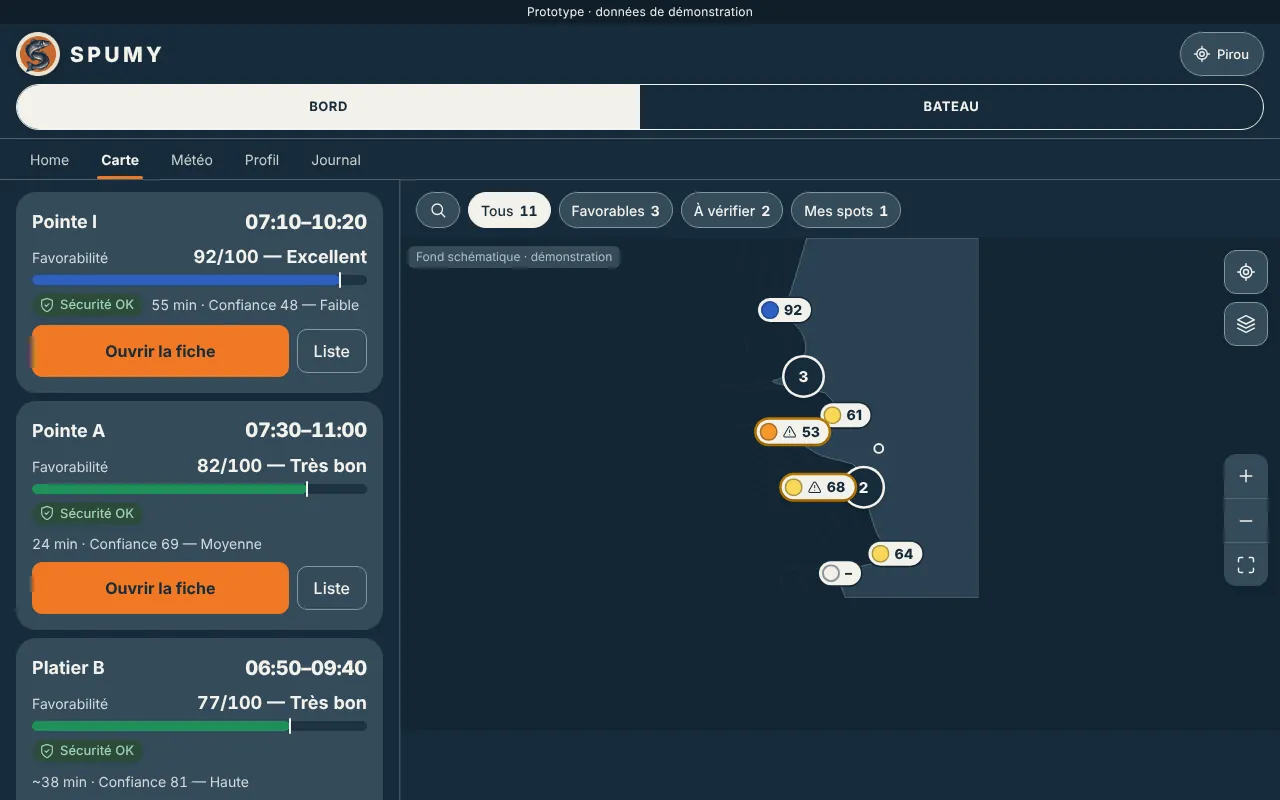
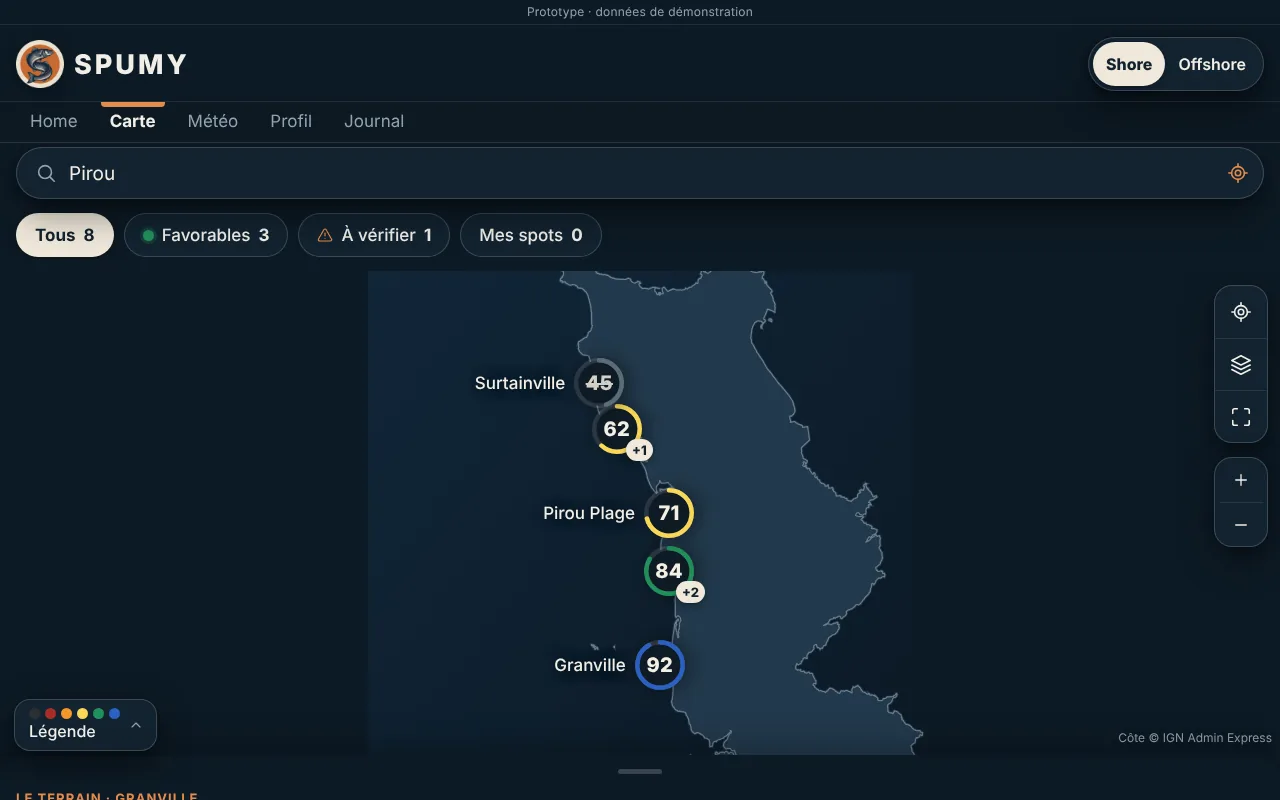
Prototype V6 : captures, planches maquette contre prototype, documents à jour (design system, UX, prototype, revues, exigences, galerie), suivi
- 14 captures à 390 px (dont la bulle de la Carte, le panneau de la Météo et le haut de Home resserré) ; planches docs/design/comparaison-v6/
- DESIGN-SYSTEM-V3 § 11 (jetons V6, orange d'interface distinct du logo), UX-V3 § 15 (niveaux d'information), PROTOTYPE-V3 version 6 (données réelles et de démonstration), REVUES-V3 § 14 et CR-15, CR-16
- exigences MAP-02, MET-01, UX-05, UX-09 précisées (V3-028) ; slogan unique en tête de Home dans la galerie et les revues
- SPUMY_AUDIT_CONTINUITY.md : sous-tâche 3.9 TESTED, prochaine action

Claude-Session: https://claude.ai/code/session_012YoZxq9fP3Y2tP8J77hw9T

diff --git a/docs/design/galerie-avant-cible.html b/docs/design/galerie-avant-cible.html
@@ -190,7 +190,7 @@ th, td { text-align: left; padding: 8px; border-bottom: 1px solid var(--line); v
       <figure><figcaption><span class="tag cible">CIBLE</span>Lancement (00)</figcaption><div class="frame" tabindex="0" role="region" aria-label="CIBLE Lancement"><img src="prototype-v3/00-lancement.webp" alt="Écran de lancement V3 : logo SPUMY d'origine sur fond crème"></div></figure>
     </div>
     <div class="apres"><b>Critères APRÈS</b><ul>
-      <li>Logo BRAND d'origine, poisson et orange #C76A31 intacts (tests/brand.py) ; aucun slogan ; on arrive sur Home, sans choisir de guide.</li>
+      <li>Logo BRAND d'origine, poisson et orange #C76A31 intacts (tests/brand.py) ; un seul slogan, « Read the sea. Fish the moment. », en tête de Home (V3-028) ; on arrive sur Home, sans choisir de guide.</li>
     </ul></div>
   </section>
 
@@ -204,7 +204,7 @@ th, td { text-align: left; padding: 8px; border-bottom: 1px solid var(--line); v
         <tr><td>Vraies données</td><td>Scores issus du moteur validé, sources et heures réelles ; aucune donnée de démonstration.</td></tr>
         <tr><td>Accessibilité</td><td>axe-core sans violation grave ; cibles de 44 px ; 12 px au moins ; un h1 et un titre par écran.</td></tr>
         <tr><td>Règles</td><td>Tests de traçabilité verts : Favorables, Confiance sans effet sur le rang, À vérifier, égalités, pénurie.</td></tr>
-        <tr><td>Marque</td><td>tests/brand.py vert ; aucun slogan ; aucun « V2 » à l'écran.</td></tr>
+        <tr><td>Marque</td><td>tests/brand.py vert ; un seul slogan, en tête de Home (V3-028) ; aucun « V2 » à l'écran.</td></tr>
       </tbody>
     </table></div>
   </section>

diff --git a/docs/REQUIREMENTS.md b/docs/REQUIREMENTS.md
@@ -2,7 +2,7 @@
 
 Phase 2 V3, 20 novembre 2026. Format du référentiel, § 5.2.
 
-**Version 3** (23 nov. 2026, V3-029 et V3-030) : 98 exigences ; MAP-09, MET-05 et JRN-06 ajoutées, UX-03 modifiée (V3-028).
+**Version 3** (23 nov. 2026, V3-029 et V3-030) : 98 exigences ; MAP-09, MET-05 et JRN-06 ajoutées, UX-03 modifiée (V3-028) ; MAP-02, MET-01, UX-05 et UX-09 précisées pour le prototype V6 (V3-028).
 
 **Version 2** (20 nov. 2026, jalon 1 de la phase 3) : 95 exigences ; MET-01 à MET-04, UX-08, UX-09, PRO-03, SPOT-09, BAT-09, BAT-10 et MAP-08 ajoutées, UX-05 modifiée (V3-023).
 
@@ -74,7 +74,7 @@ Validation : registre validé par le jeton de la phase 3 (20 nov. 2026, 4 h 25).
 | Id | Exigence | Prio. | Origine | Critère d'acceptation | Vérif. | V2 | Phase |
 | --- | --- | --- | --- | --- | --- | --- | --- |
 | MAP-01 | Carte centrée sur la position active, cadrée sur les spots retenus | IND | § 6.9 ; D11 | position et spots visibles sans geste, aux 4 largeurs | E, V | Non conforme | 3, 10 |
-| MAP-02 | Remplissage du marqueur = palier de Favorabilité seulement ; « à vérifier », « non recommandé » et « pas de note » par des signes distincts | IND | § 6.7.4 | légende et rendu conformes | V | Conforme | 3 |
+| MAP-02 | Marqueur = palier de Favorabilité seulement (V6 : anneau de la couleur du palier autour du score, V3-028) ; « à vérifier » (⚠), « non recommandé » (score barré) et « pas de note » (–) par des signes distincts ; sous 44 px d'écart, un groupe porte le meilleur score et « +N » | IND | § 6.7.4 ; V3-028 | légende et rendu conformes ; spots d'un groupe comptés dans les filtres | V | Conforme | 3 |
 | MAP-03 | Pas de chevauchement illisible (regroupement ou décalage) ; zone tactile de 44 px au moins | IND | § 6.9, § 6.10 ; D11 | capture de la côte de Carteret sans chevauchement | V, E | Non conforme | 3, 10 |
 | MAP-04 | Accord exact entre liste, marqueurs et compteurs de filtres | IND | § 13.2 | test croisé sur 3 positions | E | Conforme (par guide) | 10 |
 | MAP-05 | Fond de carte attribué ; hors ligne, un message clair ; aucun préchargement interdit | IND | § 8.5 ; V3-012 | attribution visible ; aucune requête de tuile hors de la vue | E, R | Conforme | 3, 10 |
@@ -131,7 +131,7 @@ Validation : registre validé par le jeton de la phase 3 (20 nov. 2026, 4 h 25).
 
 | Id | Exigence | Prio. | Origine | Critère d'acceptation | Vérif. | V2 | Phase |
 | --- | --- | --- | --- | --- | --- | --- | --- |
-| MET-01 | Carte du vent autour de la position de référence : flèches sur une grille régulière, force et rafales écrites, direction, heure par heure sur 48 h, puis 7 jours | IND | V3-023 (jalon 1) | flèches justes contre les données reçues ; heure choisie gardée | U, V | Absent (onglet Météo V2 sans carte) | 3, 6 |
+| MET-01 | Carte du vent autour de la position de référence : vent animé en couleurs (nappe de force et traînées dans le sens du vent, V3-028 ; flèches fixes si le mouvement est réduit), force et rafales écrites en nœuds, direction, heure par heure sur 48 h, puis 7 jours (Aujourd'hui, Demain, 7 jours) | IND | V3-023 (jalon 1) ; V3-028 | couleurs et traînées justes contre les données reçues ; heure choisie gardée ; animation en pause onglet caché | U, V | Absent (onglet Météo V2 sans carte) | 3, 6 |
 | MET-02 | BATEAU : couche Mer (hauteur, période, direction des vagues) aux mêmes points | IMP | V3-023 | couche testée en BATEAU seulement | U, V | Absent | 3, 9 |
 | MET-03 | Aucun découpage géographique (grille de points, aucune zone nommée) ; couleur neutre, distincte des paliers de Favorabilité ; avertissement écrit à partir de force 6 | IND | § 0.2 ; V3-023 | aucune couleur de palier ni nom de zone dans la couche | U, V | — | 3 |
 | MET-04 | Résumé du lieu de référence (vent, mer, eau, pression, pluie, vigilance, soleil) et courbes du jour ; source, modèle et âge toujours écrits ; hors ligne : dernière prévision avec son âge | IND | § 6.11 ; DATA_SOURCES | source et âge visibles dans tous les états | E, V | Partiel | 3, 6 |
@@ -145,11 +145,11 @@ Validation : registre validé par le jeton de la phase 3 (20 nov. 2026, 4 h 25).
 | UX-02 | Palette #F07824, #172B3A, #344B5A, #F3F1EB ; aucun cyan structurant ; jetons sémantiques ; `brand-logo-orange` distinct de `accent-orange` | IND | § 6.2 ; D6, D7 | jetons et contrastes mesurés (WCAG 2.2 AA) | U, V | Non conforme | 3 |
 | UX-03 | Aucun slogan sauf « Read the sea. Fish the moment. » en tête de Home (V3-028) ; aucune mention de « V2 » ni de « phase » à l'écran | IND | § 6.2.2 ; D5, D13 | recherche de texte dans le build | U | Non conforme | 3 |
 | UX-04 | Deux scores dans une disposition lisible, pas une grille à trois colonnes ; la fixture « 53/100, à vérifier » et « 69/100, moyenne » est comprise | IND | § 6.7.1, § 6.7.2 ; H4, H5 | 4 personnes sur 5 l'expliquent (test) | T, V | Non conforme | 3 |
-| UX-05 | Barre défilante : 4 onglets visibles, ordre par défaut Home, Carte, Météo, Profil, puis Journal ; ordre modifiable dans Profil ; Journal aussi depuis Home et Profil ; bascule BORD / BATEAU (V3-023, qui remplace en partie V3-017) | IND | § 6.4 ; V3-023 | navigation testée au clavier et au toucher ; ordre enregistré et rétabli | E | Partiel | 3, 10 |
+| UX-05 | Barre défilante : 4 onglets visibles, ordre par défaut Home, Carte, Météo, Profil, puis Journal ; ordre modifiable dans Profil ; Journal aussi depuis Home et Profil ; bascule BORD / BATEAU, écrite « Shore » / « Offshore » (cartes à logos sur Home, bascule dans l'en-tête des autres onglets, V3-028) (V3-023, qui remplace en partie V3-017) | IND | § 6.4 ; V3-023 ; V3-028 | navigation testée au clavier et au toucher ; ordre enregistré et rétabli | E | Partiel | 3, 10 |
 | UX-06 | WCAG 2.2 AA mesuré ; largeurs 320, 375, 390 px et ordinateur ; thème Plein soleil ; mouvement réduit | IND | § 6.10, § 6.14 | 0 violation axe et ratios consignés | U, V | Partiel | 3, 14 |
 | UX-07 | Le chargement n'affiche pas de statut provisoire comme s'il était réel | IMP | D12 | capture au chargement sans « à vérifier » provisoire | V | Non conforme | 3 |
 | UX-08 | On change d'onglet en le touchant ; glisser la barre fait apparaître les autres onglets (défilement par onglet entier, repère de suite, onglet actif toujours visible) ; le contenu ne change pas d'onglet par glissement ; sans animation si le mouvement est réduit | IMP | V3-023 (précision du 20 nov., 14 h 02) | barre défilée au doigt et au clavier ; Journal atteint en faisant défiler | E | Absent | 3, 10 |
-| UX-09 | Home : photo de fond (automatique selon les conditions, ou choisie dans Profil), marquée « Illustration », et phrase de synthèse de la pêche probable, horaires compris | IND | V3-023 | phrase lisible sur chaque photo (voile, contraste mesuré) ; aucune promesse | V, T | Partiel | 3, 10 |
+| UX-09 | Home : photo de fond (automatique selon les conditions, ou choisie dans Profil), marquée « Illustration », et phrase de synthèse de la pêche probable, horaires compris ; bande de 24 h colorée heure par heure selon le score réel ; partie haute (marque, Shore / Offshore, lieu, jours) fixe en faisant défiler, resserrée (V3-028) | IND | V3-023 ; V3-028 | phrase lisible sur chaque photo (voile, contraste mesuré) ; aucune promesse ; haut fixe testé au défilement | V, T | Partiel | 3, 10 |
 
 ## OFF — Hors ligne et synchronisation
 

diff --git a/docs/design/PROTOTYPE-V3.md b/docs/design/PROTOTYPE-V3.md
@@ -55,11 +55,28 @@ Vraies photos de spots : abandonnées (V3-026). Le fond IGN réel arrive aux pha
 
 **Statut** : jalon 2 VALIDÉ AVEC RÉSERVES (Félix, 20 nov., 15 h 40 ; V3-027) sur la version 5.2 ; la version 5.3 n'apporte que les corrections des revues. Toutes les données sont **de démonstration**, et l'écran le dit en permanence. Le prototype n'appelle aucun service : ni météo, ni route, ni géocodage, ni tuiles.
 
+**Version 6** (23 nov. 2026, maquettes de Félix ; V3-028, V3-029, V3-030 ; cahier `docs/design/PROTOTYPE-V6.md`) :
+- **Home**, d'après la maquette jugée « parfaite » : médaillon, mot SPUMY et le slogan « Read the sea. Fish the moment. » (seul slogan, en tête de Home) ; cartes Shore et Offshore avec les logos d'origine (redimensionnés seulement) ; champ de lieu ; Aujourd'hui, Demain, 7 jours ; photo et phrase de synthèse ; **bande de 24 h colorée heure par heure selon le score réel** ; la partie haute reste fixe en faisant défiler et se resserre.
+- **Carte = vue pêche** : vrai trait de côte (IGN Admin Express, Licence ouverte) et les 8 vrais spots V2 à leur position ; pastilles à anneau de palier ; noms masqués en vue large ; boutons Me localiser, Couches, Vue d'ensemble, + et − discrets ; légende dépliable. Toucher un spot ouvre une bulle courte (km · min, sorties, poissons, « Meilleur moment ») ; le retoucher la ferme. Aucun vent sur cette vue.
+- **Météo = vue conditions** : vent animé en couleurs (nappe de force et traînées, en nœuds ; flèches fixes si le mouvement est réduit, pause quand l'onglet est caché) ; Aujourd'hui, Demain, 7 jours ; panneau à droite au toucher d'un spot, refermé au second toucher, **Sécurité d'abord**, chaque valeur avec sa source et son heure.
+- **Du général au spécifique** (V3-029) : la carte occupe le premier écran ; en faisant défiler, la Carte explique **pourquoi ce spot est bon aujourd'hui par son terrain** (marée, exposition, courant, houle croisés avec le jour, puis fond et structure), la Météo **comment chaque élément a pesé dans la note** (sens et poids, somme égale à la note) ; puis le détail sourcé, avec le niveau de preuve (1 à 5) de chaque connaissance.
+- **Journal (JRN-06)** : chaque sortie garde la note affichée ce jour-là ; une vue met les notes de SPUMY face aux résultats (prises par heure), sans conclusion sous le seuil de 5 sorties dont 2 avec prise ; la boucle d'affinage reste contrôlée (§ 9.3.1 : calculée, approuvée par Félix, réversible).
+- **Autres écrans** à la palette V6, vent en nœuds partout ; Pointe A à Pointe G remplacées par les vrais noms.
+
+| Donnée | Réelle | De démonstration |
+| --- | --- | --- |
+| Spots, positions (à la minute près), temps de route, fenêtres de marée des fiches, terrain, sécurité, sources | oui (fiches V2, `data/sites/pirou.config.js`) | — |
+| Connaissances et niveaux de preuve | oui (`data/knowledge`, générées par `scripts/connaissances-v6.mjs`) | — |
+| Trait de côte | oui (IGN Admin Express 2018) | — |
+| Notes du jour, marée du jour, vent, houle, ciel, journal | — | oui, marquées « démo » à l'écran |
+| Courbes de profondeur | **absentes** : aucune donnée réelle joignable d'ici (EMODnet et Shom refusés par le proxy) ; rien n'est dessiné | — |
+
 ## Où le voir
 
 - **Page de revue** : artefact « Prototype SPUMY V3 » (privé), construit avec `node scripts/build-prototype-v3.mjs --revue <dossier>`.
 - **Dans le dépôt** : `prototype-v3/`, construit par `npm run build:prototype-v3`. Les photos et le logo sont lus dans `../assets`. Ce dossier sera publié avec le site seulement si Félix accepte la fusion.
-- **Captures** à 390 × 844 : `docs/design/prototype-v3/*.webp`, 11 images, nuit marine (et deux en plein jour), plus le bureau.
+- **Captures** à 390 × 844 : `docs/design/prototype-v3/*.webp`, 14 images, nuit marine (et deux en plein jour), plus le bureau ; dont les premiers écrans avec la bulle de la Carte (12), le panneau de la Météo (13) et le haut de Home resserré (14).
+- **Maquette contre prototype** : `docs/design/comparaison-v6/{home,carte,meteo}.webp`.
 
 ## Ce qu'on peut faire
 
@@ -91,7 +108,10 @@ Il n'existe pas dans l'application.
 
 | Commande | Code de sortie | Résultat |
 | --- | --- | --- |
-| `npm run test:prototype-v3` (construction, puis `tests/prototype-v3.mjs --axe`) | 0 | 194/194 |
+| `npm run test:prototype-v3` (construction, puis `tests/prototype-v3.mjs --axe`), version 6 | 0 | 216/216 |
+| `npm test` (lint, couches, données, connaissances, design, moteur v2, unitaires, e2e, contrat simulé) | 0 | tout vert ; 0 couleur en dur ajoutée |
+| `npm run test:a11y` ; `npm run test:upgrade` ; `npm run test:prototype` | 0 ; 0 ; 0 | 0 violation ; 12/12 ; 244/244 |
+| `node scripts/connaissances-v6.mjs --check` | 0 | `connaissances.js` à jour |
 | `npm run test:design-v3` | 0 | 186/186 |
 | `npm run -s lint` ; `node tests/layers.mjs` | 0 ; 0 | aucun écart ; 253 couleurs en dur hors de `src/design/`, inchangé |
 
@@ -102,14 +122,20 @@ Il n'existe pas dans l'application.
 - la fiche : courbe, danger avant la marée, fixture « 53/100 — À vérifier » ;
 - la comparaison : vent, écart chiffré, « avantage non établi » ;
 - la barre : 4 onglets visibles, Journal hors champ, chevrons, ordre modifié ;
-- la Météo : grille de flèches, curseur, couche Mer ;
+- la Météo (V6) : nappe et traînées du vent, panneau du spot avec Sécurité d'abord, vent en nœuds, source et heure, somme des poids égale à la note, ouverture et fermeture au toucher ;
+- la Carte (V6) : bulle (distance, sorties, poissons, meilleur moment) qui ne cache pas le spot, détails sous la carte (effet par ligne, niveaux de preuve, sources), début des détails visible dans le premier écran ;
+- Home (V6) : slogan, cartes Shore et Offshore avec logos chargés, bande de 24 h, haut fixe qui se resserre ;
+- le Journal : note de SPUMY ce jour-là face au résultat, pas de conclusion sous le seuil ;
 - BATEAU : choix du bateau avant le verdict ;
 - les revues (3.7) : Confiance sans effet sur le rang ni sur les égalités (3 jeux), pénurie sans carte inventée, fixture § 6.7.2, règle des filtres, cibles de 44 px, un h1 et un titre par écran, 12 px au moins, ni Pertinence, ni note sur 10, ni « V2 » à l'écran ;
 - axe-core (WCAG 2.2 A et AA) sur 6 écrans dans les deux thèmes : aucune violation grave ni critique.
 
 ## Limites connues
 
-- Fond de carte schématique, côte inventée, et données inventées : aucune décision ne doit s'appuyer sur les chiffres.
+- Version 6 : trait de côte réel, mais notes, marée du jour, vent et journal **de démonstration** : aucune décision ne doit s'appuyer sur ces chiffres.
+- Courbes de profondeur : absentes faute de données réelles joignables (Félix, 23 nov. : rien d'inventé).
+- Offshore (Carte et Météo) : un avis remplace encore la vue ; pas au niveau V6.
+- En vue large, les spots proches se regroupent (« +N ») : les 8 vrais spots couvrent environ 70 km de côte, la maquette en montrait 4 sur quelques kilomètres.
 - Glisser-déposer des onglets : seules les flèches fonctionnent ; les poignées sont dessinées.
 - Demain et 7 jours : seule la journée d'aujourd'hui est remplie.
 - Les composantes de « Pourquoi ? », la réglementation et les sources sont des textes d'exemple.

diff --git a/docs/design/REVUES-V3.md b/docs/design/REVUES-V3.md
@@ -170,7 +170,7 @@ La galerie AVANT/CIBLE est dans `docs/design/galerie-avant-cible.html`, publiée
 ## 7. Revue des contenus et revue terrain
 
 **Contenus**
-- Pas de slogan, pas de « V2 » ni de « phase », pas de note sur 10, pas de « Pertinence » à l'écran (testé sur 8 écrans ; « Phase 9 » retiré du choix du bateau, D-16).
+- Un seul slogan, en tête de Home (V3-028) ; pas de « V2 » ni de « phase », pas de note sur 10, pas de « Pertinence » à l'écran (testé sur 8 écrans ; « Phase 9 » retiré du choix du bateau, D-16).
 - Heures au format `HH:MM–HH:MM`.
 - Espace insécable avant « : ».
 - Chaque photo est marquée « Illustration » (V3-026).
@@ -234,7 +234,7 @@ Aucun défaut critique ou majeur ne reste ouvert. Les défauts de l'audit AVANT 
 | A04 (Top 3), A21 (filtres), A14 (paragraphes avant de voir), A13 (textes, horaires) | Corrigés dans le prototype (A04 et A21 testés). |
 | A11 (carte), A19 (bureau), A17 (navigation), A18 (BATEAU) | Corrigés dans le prototype ; vrai fond de carte à l'intégration. |
 | A12 (pastilles provisoires au chargement) | État « Chargement » prototypé. |
-| A05 (slogan) | Absent du prototype ; à retirer du site à l'intégration. |
+| A05 (slogan) | Le slogan du site est retiré ; seul « Read the sea. Fish the moment. » reste, en tête de Home (V3-028). |
 | A08 (coordonnées), A10 (vigilance) | Hors du périmètre de la phase 3 : phases 5, 7 et 9. |
 | A22 (export) | À décider après le test T6. |
 
@@ -252,7 +252,7 @@ Aucun défaut critique ou majeur ne reste ouvert. Les défauts de l'audit AVANT 
 | Données et confiance | Partiellement conforme | Source et heure (Météo, fiche), hors ligne, sécurité avant tout, règles de pêche marquées | Données de démonstration (R6) ; vigilance réelle : relais (V3-011) |
 | Terrain et accessibilité | Partiellement conforme | WCAG 2.2 AA : 24 critères conformes, 7 partiels ou non vérifiables (§ 4) ; cibles de 44 px ; deux thèmes | Essai dehors (CR-05) ; D-08, D-09 |
 | Responsive et performance | Partiellement conforme | 320, 375, 390, 1 280 px × 2 thèmes ; 265 à 466 Ko par écran | Appareils réels, réseau dégradé, zones sûres : CR-06 |
-| Contenus et assets | Conforme | Photos marquées « Illustration », provenance dans `data/photos/catalogue.json`, aucun slogan, aucun « V2 » | — |
+| Contenus et assets | Conforme | Photos marquées « Illustration », provenance dans `data/photos/catalogue.json`, un seul slogan, en tête de Home (V3-028), aucun « V2 » | — |
 | Périmètre V3 et héritage V2 | Partiellement conforme | BATEAU présent : Home, marques, bateau, sorties, carte, météo Mer | Fonctions BATEAU V2 non toutes prototypées (journal BATEAU détaillé, modèle appris) ; vérifiées à l'intégration (BAT-01 à BAT-10) |
 | Validation | Partiellement conforme | Captures réelles, 194 + 186 + 29 tests, jalons 1 et 2 de Félix | TEST UTILISATEUR NON EFFECTUÉ ; VALIDATION HUMAINE INDÉPENDANTE NON OBTENUE |
 | Trois cartes de recommandation | Conforme | 3 cartes BORD et 3 BATEAU ; place réservée, égalités, pénurie testées ; responsive | Données réelles : intégration |
@@ -297,3 +297,21 @@ Chaque critère reprend une réserve du jalon 2 (R1 à R6) ou un défaut ouvert.
 | CR-12 | R5 | Météo sur vraies prévisions : flèches lisibles à 320 px, densité de grille réglée, rafales visibles | Captures, retour de Félix |
 | CR-13 | R6, jalon 3 | Prototypes métier revalidés avec les scores du moteur, après les phases 5, 8 et 9 ; fixture 53 / 100 provisoire / 69 rejouée sur mobile et bureau (§ 10) | Tests de compréhension T7 |
 | CR-14 | Performance | Home sous 500 Ko au premier chargement, polices comprises (466 Ko mesurés dans le prototype) ; images en 720 px sur mobile | Mesure du poids |
+| CR-15 | V3-028 | Courbes de profondeur seulement depuis une donnée réelle (EMODnet Bathymetry ou Shom), avec source et date ; aucune courbe sinon | Recette carto, source citée |
+| CR-16 | V3-028 | Vent animé sur vraies prévisions : couleurs en nœuds justes contre les données, animation en pause onglet caché, flèches fixes si le mouvement est réduit, 60 i/s sur un téléphone moyen | Mesure, captures |
+
+## 14. Revue de la version 6 (23 nov. 2026)
+
+Même méthode que les revues 3.7 (heuristiques, accessibilité, contenu), appliquée aux maquettes de Félix reproduites (V3-028 à V3-030).
+
+| Point | Constat | Suite |
+| --- | --- | --- |
+| Fidélité aux 3 vues | Home, Carte et Météo reprennent la composition, la palette et la hiérarchie des maquettes (`docs/design/comparaison-v6/`) | Revalidation par Félix |
+| Données | Trait de côte IGN réel, 8 vrais spots à leur position ; notes, marée du jour, vent et journal de démonstration, marqués | Moteur : phases 5, 8, 9 |
+| Courbes de profondeur | Absentes : EMODnet et Shom refusés par le proxy ; rien de dessiné | Fichier à fournir par Félix (CR-15) |
+| Général → spécifique | Premier écran = carte ; bulle ou panneau au toucher ; sections « pourquoi » sous la carte ; détail sourcé avec niveau de preuve | Testé |
+| Accessibilité | axe : aucune violation grave dans les deux thèmes après correction de l'orange (3,9 → 5,1:1) et du vert (4,3 → 5,9:1) en plein jour, des libellés d'effet et des pastilles décoratives | Testé |
+| Cibles | Liens de sources portés à 44 px ; boutons de carte 44 px ; pastilles 52 px | Testé |
+| Vue large | Spots proches regroupés (« +N ») : les vrais spots couvrent ~70 km, la maquette 4 spots rapprochés | Écart assumé, à confirmer par Félix |
+| Offshore | Carte et Météo Offshore : un avis, pas encore la vue V6 | À faire |
+| Mouvement | Vent animé en pause onglet caché ; flèches fixes si le mouvement est réduit | Testé (mouvement réduit) |

diff --git a/docs/design/DESIGN-SYSTEM-V3.md b/docs/design/DESIGN-SYSTEM-V3.md
@@ -236,8 +236,8 @@ Dans tous les cas, le filtre exige aussi la sécurité et l'absence de statut «
     - information : « i ».
 - **Logos** : la matrice d'usage de `docs/design/BRAND-MANIFEST.md` § 6 s'applique.
     - Médaillon BRAND : 40 px au moins dans l'interface.
-    - Mot SPUMY : en texte, jamais accompagné d'un slogan.
-    - INSHORE et OFFSHORE : facultatifs, jamais dans la navigation.
+    - Mot SPUMY : en texte ; accompagné du seul slogan « Read the sea. Fish the moment. », en tête de Home uniquement (V3-028).
+    - INSHORE et OFFSHORE : facultatifs, jamais dans la barre de navigation ; sur les cartes Shore et Offshore de Home (V3-028), sans retouche (redimensionnés seulement, `assets/brand/v3/{inshore,offshore}-{128,256}.webp`).
 
 ## 7. Composants
 
@@ -293,7 +293,7 @@ Chaque composant est spécifié ici, puis prototypé en 3.6. Le critère d'accep
 ## 9. Contenus et rédaction
 
 - **Phrases courtes**, au présent ; un verbe pour chaque action (« Ouvrir la fiche », « Me géolocaliser »).
-- **Aucun slogan** ; « V2 » n'apparaît jamais à l'écran (§ 6.2.2).
+- **Un seul slogan**, « Read the sea. Fish the moment. », en tête de Home (V3-028, modifie le § 6.2.2) ; « V2 » n'apparaît jamais à l'écran.
 - **Heures** au format `HH:MM–HH:MM`, en heure locale. Sinon : « Fenêtre non déterminable », suivi de sa raison.
 - **Nombres** : virgule décimale (« 4,2 MN ») ; espace insécable avant les unités et avant « : ; ? ! » ; « ~ » ou « environ » pour une estimation ; « estimation » écrit en toutes lettres quand le temps de route n'est pas vérifié.
 - **Scores** :
@@ -313,7 +313,21 @@ Chaque composant est spécifié ici, puis prototypé en 3.6. Le critère d'accep
 5. Disposition des cartes de recommandation sur bureau.
 6. Rendu de la carte du vent (épaisseur des flèches, densité de la grille) et de la courbe de marée.
 
-## 11. Preuves
+## 11. Version 6 (23 nov. 2026, V3-028 à V3-030)
+
+Les jetons V3 restent la référence (paliers, seuil 75, typographie, cibles). La version 6 ajoute, dans `src/prototype-v3/v6.css`, une couche de jetons `--v6-*` pour reproduire les maquettes de Félix, dans les deux thèmes.
+
+- **Surfaces** : fond marine `#0D1A25` (nuit) et papier `#F1EEE6` (jour) ; verre dépoli pour les commandes posées sur la carte (`--v6-glass`) ; mer et terre de la carte (`--v6-sea`, `--v6-land`), trait de côte en filet.
+- **Orange d'interface** : `#E58A4C` sur fond marine, `#9E4E1C` sur papier (texte à 5,1:1 ; l'ancien `#B85E26` ne tenait que 3,9:1). Il ne sert qu'aux libellés et au bouton principal ; **l'orange du logo (#C76A31) n'est ni repris ni modifié**, le logo s'affiche toujours depuis ses exports.
+- **Effets** (terrain et météo) : favorable `#5CCB8E` / `#17683F`, défavorable `#F08A7E` / `#B23B30`, neutre, inconnu ; toujours avec un signe (+ − = ?) et un mot, jamais la couleur seule.
+- **Pastille V6** : disque sombre, score au centre, anneau de la couleur du palier ; ⚠ pour « à vérifier », score barré pour « non recommandé », « – » sans note ; groupe sous 44 px avec « +N ». 52 px à l'écran, à toutes les échelles.
+- **Vent** : échelle de couleurs en nœuds de 0 à 42 (violet, bleu, vert, jaune, orange, rouge), nappe lissée et traînées blanches ; couleurs d'illustration dans `ILLUSTRATION` de `src/design/v3/tokens.js`, jamais pour un texte.
+- **Bulle** (Carte) de 184 px, à droite du spot ; **panneau** (Météo) de 250 px au plus (52 % de l'écran), le spot touché reste visible à sa gauche.
+- **Niveaux d'information** (V3-029) : premier écran = la carte ; puis la bulle ou le panneau ; puis, en faisant défiler, les sections « pourquoi » ; puis le détail sourcé.
+
+Contrôles : `tests/prototype-v3.mjs --axe` 216/216 (axe : aucune violation grave dans les deux thèmes) ; `tests/layers.mjs` sans couleur en dur ajoutée.
+
+## 12. Preuves
 
 | Commande | Code de sortie | Résultat |
 | --- | --- | --- |

diff --git a/SPUMY_AUDIT_CONTINUITY.md b/SPUMY_AUDIT_CONTINUITY.md
@@ -42,6 +42,7 @@ Le jeton de la phase 2 a été donné après le rapport de phase 1, qui proposai
 | 3.6 Prototype interactif (BORD et BATEAU) ; les wireframes sont faits en 3.4 | VALIDATED avec réserves (jalon 2, Félix, 20 nov., 15 h 40 ; V3-027) sur la version 5.2 (28b3b85 ; `test:prototype-v3` 156/156, `test:design-v3` 186/186, `tests/brand.py` 29/29) | `src/prototype-v3/`, `scripts/build-prototype-v3.mjs`, `tests/prototype-v3.mjs`, `prototype-v3/`, `docs/design/PROTOTYPE-V3.md`, `docs/design/prototype-v3/` ; artefact « Prototype SPUMY V3 » |
 | 3.7 Revues, tests, galerie AVANT/CIBLE, matrices de conformité et de traçabilité | IMPLEMENTED (revues UX, plateformes, WCAG 2.2, DA, carte, contenus, terrain ; 16 défauts dont 8 corrigés, 0 critique ou majeur ouvert ; matrices § 6.16 et de traçabilité ; 14 critères de recette ; TEST UTILISATEUR NON EFFECTUÉ, protocole prêt ; prototype 5.3 : `test:prototype-v3` 194/194) | `docs/design/REVUES-V3.md`, `docs/design/galerie-avant-cible.html` (artefact privé), `scripts/mesures-revue-v3.mjs`, `docs/design/revue-v3-mesures.json` |
 | 3.8 Rapport et arrêt | TESTED (`npm ci`, `npm run build` sans écart, `npm test`, `test:a11y`, `test:upgrade`, `test:prototype` 244/244, `test:prototype-v3` 194/194, `tests/brand.py` 29/29 : tous code 0 ; CI verte sur a2b7844 ; D-16 corrigé en 76338f2) | `docs/rapports/v3/PHASE-3.md`, document Claude du rapport |
+| 3.9 Prototype V6 (maquettes de Félix, V3-028 à V3-030 ; feu vert du 23 nov., 8 h 47) | TESTED (`npm test` 0, `test:a11y` 0, `test:upgrade` 12/12, `test:prototype` 244/244, `prototype-v3 --axe` 216/216, `connaissances-v6 --check` 0) ; revalidation par Félix attendue | `docs/design/PROTOTYPE-V6.md`, `src/prototype-v3/` (geo, connaissances, data, effets, geomap, carte6, home, v6.css), `scripts/geo-v6.mjs`, `scripts/connaissances-v6.mjs`, `scripts/logos-modes-v6.py`, `tests/prototype-v3.mjs`, captures `docs/design/prototype-v3/`, planches `docs/design/comparaison-v6/`, documents DESIGN-SYSTEM-V3 § 11, UX-V3 § 15, PROTOTYPE-V3, REVUES-V3 § 14, REQUIREMENTS (MAP-02, MET-01, UX-05, UX-09) |
 
 ## Questions et décisions (registre)
 
@@ -70,12 +71,12 @@ Le jeton de la phase 2 a été donné après le rapport de phase 1, qui proposai
 
 - Branche : `claude/v3-phase-3`, partie de `claude/v3-phase-2` (05cbcc0), elle-même partie de `main` (bb4f940). La phase 2 n'est pas fusionnée.
 - Dernier commit : voir `git log` ; ce fichier est mis à jour à chaque sous-tâche.
-- Tests : suite complète relancée le 20 nov. 2026 (3.8), tous les codes de sortie à 0 ; voir le rapport, § 7.
+- Tests : suite complète relancée le 23 nov. 2026 après la version 6 (3.9), tous les codes de sortie à 0 : `npm test`, `test:a11y`, `test:upgrade`, `test:prototype`, `tests/prototype-v3.mjs --axe` 216/216.
 - Rien n'est fusionné ; `main` reste à bb4f940 ; V3-019 non exécuté.
 
 ## Prochaine action
 
-Phase 3 TESTED, rapport remis. Version 6 du prototype décidée le 23 nov. (V3-028) : NE PAS COMMENCER avant le feu vert explicite de Félix. Au feu vert, suivre `docs/design/PROTOTYPE-V6.md` § 8, dans la phase 3, sur `claude/v3-phase-3`, sans rien publier. Ne pas revenir sur ce qui est validé. Le jeton de phase 4 sera demandé après la revalidation de la version 6.
+Version 6 du prototype faite et testée (3.9), dans la phase 3, sur `claude/v3-phase-3`, sans rien publier. Prochaine action : republier la page de revue du prototype, puis remettre à Félix le compte rendu de la version 6 (fait, écarts : Offshore Carte et Météo en avis ; aucune courbe de profondeur faute de donnée réelle, fichier EMODnet ou Shom à fournir ; regroupement en vue large) et demander sa revalidation. Après la revalidation : complément au rapport de phase 3, puis demande du jeton de phase 4. Ne pas revenir sur ce qui est validé. V3-019 non exécuté ; D-11 et D-15 toujours à décider.
 
 ## Règle de passation (limite de crédits, référentiel § 3.6)
 

diff --git a/docs/design/UX-V3.md b/docs/design/UX-V3.md
@@ -393,3 +393,18 @@ Dans `docs/design/wireframes/` : la source (`index.html`, ouverte telle quelle d
 | 13 | 09 : carte marine (épaves, hauts-fonds…) ; bonus, pas obligatoire aujourd'hui | § 6 BATEAU, point 5 : À ÉTUDIER (V3-024), hors du périmètre obligatoire |
 
 Hors du jalon 1 : l'apparence (jalon 2), l'emplacement de l'export (test), les statistiques du Profil (étude).
+
+## 15. Version 6 : niveaux d'information (23 nov. 2026, V3-028 à V3-030)
+
+Règle de Félix (V3-029) : l'information va du général au spécifique, jamais tout au même niveau. Chaque explication part de la règle générale avant le cas du spot.
+
+| Niveau | Carte (vue pêche) | Météo (vue conditions) |
+| --- | --- | --- |
+| 1. Point de vue global (premier écran) | la carte : côte réelle, spots et leur note, filtres, légende | la carte du vent animé en couleurs, spots et leur note, jours |
+| 2. Le spot (un toucher, refermé au second) | bulle courte : km · min, sorties, poissons, « Meilleur moment » | panneau à droite : Sécurité d'abord, ciel, air, eau, vent en nœuds, houle, pression, marée, chacun avec source et heure |
+| 3. La justification (en faisant défiler sous la carte) | **pourquoi ce spot est bon aujourd'hui par son terrain** : marée, exposition au vent, courant, houle croisés avec le jour, chacun avec son effet ; puis fond, structure, bancs | **comment chaque élément a pesé dans la note** : sens et poids de chaque élément, somme égale à la note ; rien d'inventé quand l'élément n'a pas de poids |
+| 4. Le détail sourcé | la règle générale (connaissance, niveau de preuve 1 à 5), les sources de la fiche, les fenêtres de marée, la sécurité | la règle générale de chaque élément (connaissance, niveau de preuve), la source et l'heure de chaque valeur |
+
+- **Home** reste la synthèse : marque et slogan, Shore / Offshore, lieu, jours, phrase et bande de 24 h colorée heure par heure, puis les spots ; la partie haute reste fixe en faisant défiler, resserrée.
+- **Journal** : les notes de SPUMY face aux sorties (JRN-06) ; aucune conclusion sous le seuil ; l'affinage du modèle reste la boucle contrôlée du § 9.3.1.
+- **Offshore** : Carte et Météo affichent encore un avis ; la vue V6 Offshore reste à faire (écart signalé).
